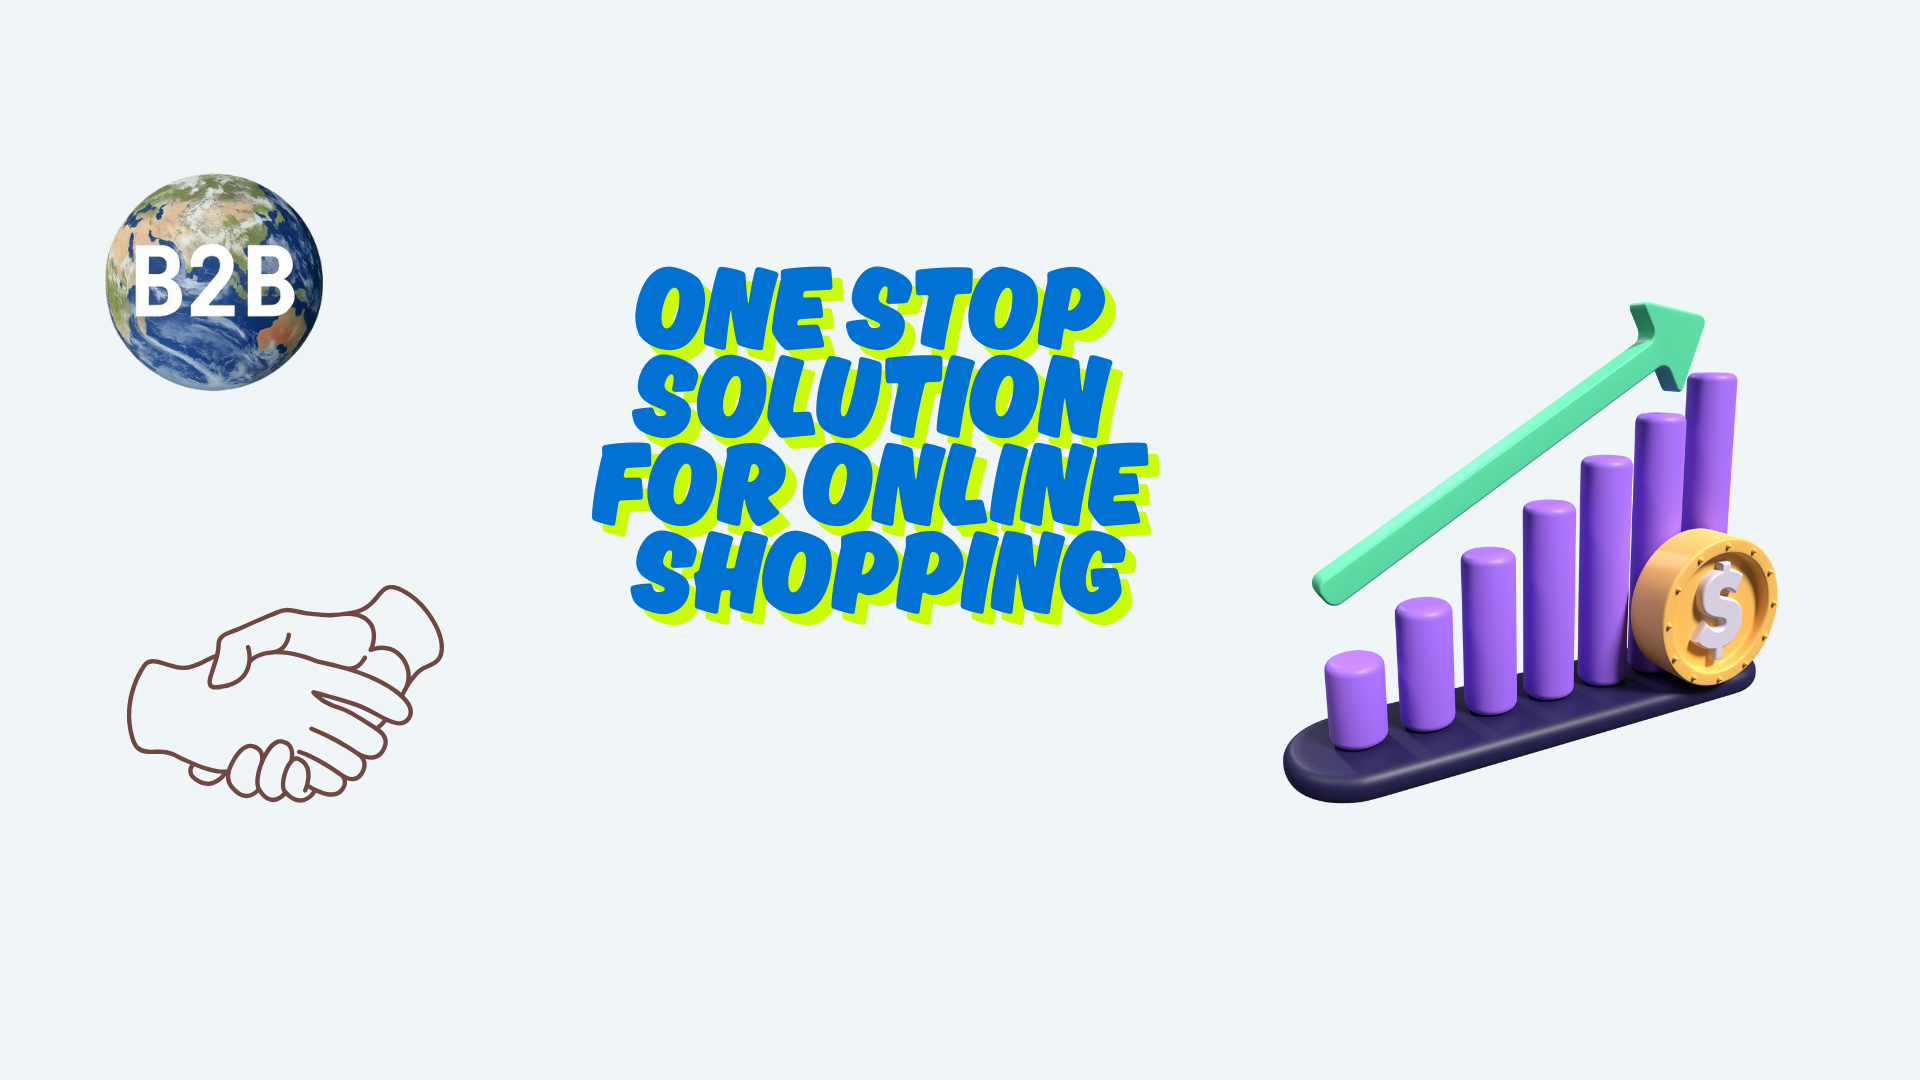
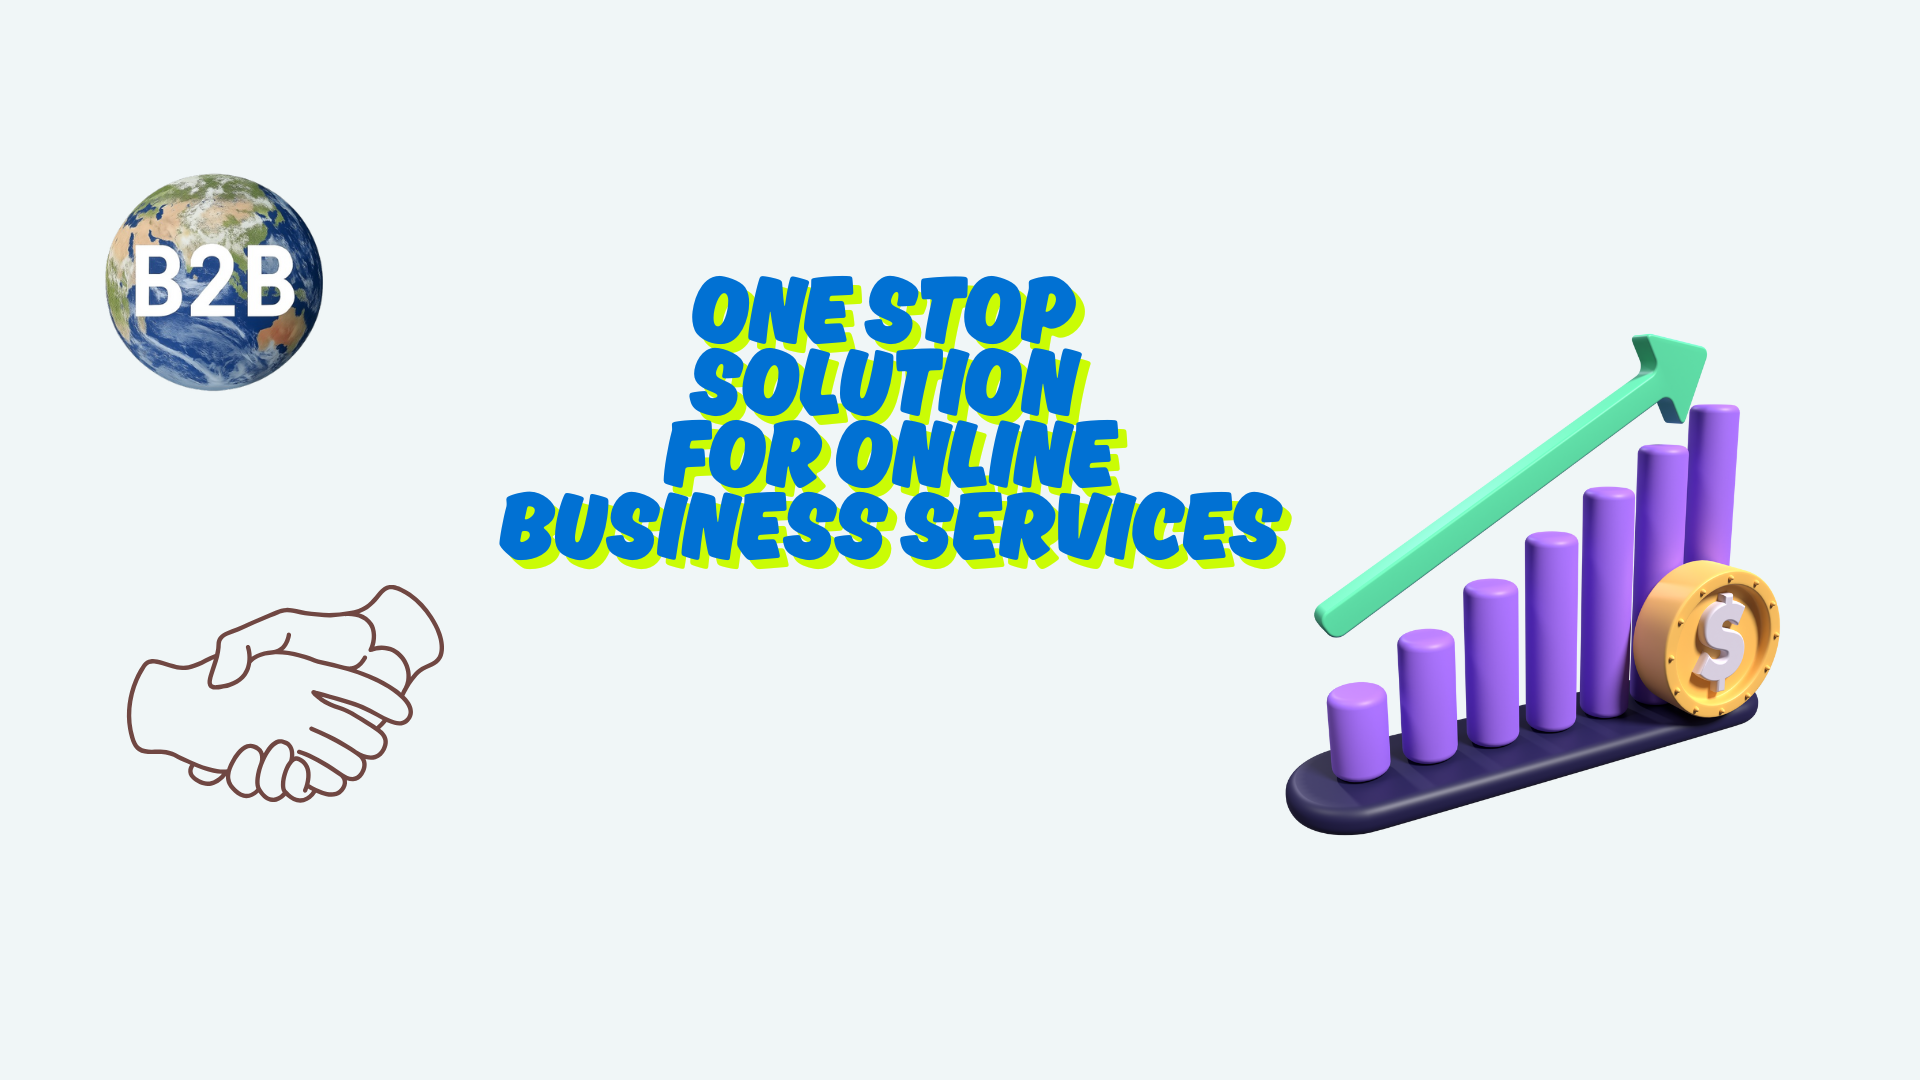
notifications b2b

Changed region(s): [[0.25, 0.2444, 0.9375, 0.7944]]

diff --git a/restaurant/src/components/Navbar.jsx b/restaurant/src/components/Navbar.jsx
@@ -2,13 +2,59 @@ import { useState, useContext } from 'react';
 import { Link, useNavigate } from 'react-router-dom';
 import { MobileMenuContext } from '../context/MobileMenuContext';
 import { AuthContext } from '../context/AuthContext';
+import { Bell } from 'lucide-react';
+import { useEffect, useRef } from 'react';
+import io from 'socket.io-client';
+import { API_URL } from '../api/api';
 
 const Navbar = () => {
     const [isOnline, setIsOnline] = useState(false);
+    const [showNotifications, setShowNotifications] = useState(false);
     const { user, handleLogout } = useContext(AuthContext);
     const { setIsMobileMenuOpen } = useContext(MobileMenuContext);
     const navigate = useNavigate();
+    const socket = io(API_URL, { withCredentials: true });
+    const [recentOrders, setRecentOrders] = useState([]);
+     useEffect(() => {
+        if (!user) return;
 
+        // Listen for new orders
+        socket.on('newOrder', (newOrder) => {
+            if (newOrder.restaurantId === user.restaurantId) {
+                setRecentOrders(prev => {
+                    // Prevent duplicates
+                    const exists = prev.some(order => order._id === newOrder._id);
+                    if (!exists) {
+                        // Keep only latest 10
+                        return [newOrder, ...prev].slice(0, 10);
+                    }
+                    return prev;
+                });
+            }
+        });
+         // Listen for order status updates
+        socket.on('orderStatusUpdate', (updatedOrder) => {
+            if (updatedOrder.restaurantId === user.restaurantId) {
+                setRecentOrders(prev => {
+                    // Remove cancelled orders
+                    if (updatedOrder.status === 'CANCELLED') {
+                        return prev.filter(order => order._id !== updatedOrder._id);
+                    }
+                    // Update order if exists
+                    return prev.map(order =>
+                        order._id === updatedOrder._id ? updatedOrder : order
+                    );
+                });
+            }
+        });
+
+        // Cleanup listeners on unmount
+        return () => {
+            socket.off('newOrder');
+            socket.off('orderStatusUpdate');
+        };
+    }, [user]);
+    
     const onStatusChange = (status) => {
         setIsOnline(status === 'online');
     };
@@ -16,6 +62,10 @@ const Navbar = () => {
     const handleLogoutClick = () => {
         handleLogout();
         navigate('/');
+    };
+
+    const toggleNotifications = () => {
+        setShowNotifications(!showNotifications);
     };
 
     return (
@@ -43,8 +93,8 @@ const Navbar = () => {
                 {/* Right-aligned section */}
                 <div className="d-flex align-items-center gap-4">
                     {/* About Us and Contact Us links - now moved to the right */}
-                    <div className="d-none d-md-flex gap-4">
-                        <Link className="text-decoration-none text-dark fw-medium" to="/aboutus">
+                    <div className="d-none d-md-flex gap-4 align-items-center">
+                        <Link className="text-decoration-none text-dark fw-medium" to="/aboutb2b">
                             About B2B
                         </Link>
                         <Link className="text-decoration-none text-dark fw-medium" to="/contactus">
@@ -53,6 +103,58 @@ const Navbar = () => {
                         <Link className="text-decoration-none text-dark fw-medium" to="/feedback">
                             Feedback
                         </Link>
+                        <div className="position-relative">
+                            <button 
+                                className="btn btn-link text-dark p-0 position-relative"
+                                onClick={toggleNotifications}
+                            >
+                                <Bell size={20} />
+                                <span className="position-absolute top-0 start-100 translate-middle badge rounded-pill bg-danger" style={{ fontSize: '0.6rem' }}>
+                                    {recentOrders.length}
+                                    <span className="visually-hidden">unread notifications</span>
+                                </span>
+                            </button>
+                            
+                            {/* Notifications dropdown */}
+                            {showNotifications && (
+                                <div className="position-absolute end-0 mt-2 bg-white rounded shadow-lg" style={{ width: '300px', zIndex: 1050 }}>
+                                    <div className="p-3 border-bottom">
+                                        <h6 className="mb-0 fw-bold">Recent Orders</h6>
+                                    </div>
+                                    <div style={{ maxHeight: '400px', overflowY: 'auto' }}>
+                                        {recentOrders.length > 0 ? (
+                                            recentOrders.map(order => (
+                                                <Link 
+                                                    key={order._id} 
+                                                    to = "/orders" 
+                                                    className="d-block p-3 border-bottom text-decoration-none text-dark hover-bg-light"
+                                                    onClick={() => setShowNotifications(false)}
+                                                >
+                                                    <div className="d-flex justify-content-between">
+                                                        <span className="fw-medium">{order.product}</span>
+                                                        <small className="text-muted">{order.date}</small>
+                                                    </div>
+                                                    <div className="text-muted small">Status: {order.status}</div>
+                                                </Link>
+                                            ))
+                                        ) : (
+                                            <div className="p-3 text-center text-muted">
+                                                No recent orders
+                                            </div>
+                                        )}
+                                    </div>
+                                    <div className="p-2 border-top text-center">
+                                        <Link 
+                                            to="/orders" 
+                                            className="text-primary small text-decoration-none"
+                                            onClick={() => setShowNotifications(false)}
+                                        >
+                                            View all orders
+                                        </Link>
+                                    </div>
+                                </div>
+                            )}
+                        </div>
                     </div>
 
                     {/* User dropdown */}

diff --git a/restaurant/src/pages/MenuEditor.jsx b/restaurant/src/pages/MenuEditor.jsx
@@ -744,7 +744,7 @@ function MenuEditor() {
                                     <div className="grid grid-cols-1 md:grid-cols-2 gap-4 mb-4">
                                       <div>
                                         <label className="block text-sm font-medium text-gray-700 mb-1">
-                                          Item Name
+                                          Item Name <span className="text-red-500">*</span>
                                         </label>
                                         <input
                                           type="text"
@@ -757,7 +757,7 @@ function MenuEditor() {
                                       </div>
                                       <div>
                                         <label className="block text-sm font-medium text-gray-700 mb-1">
-                                          Price
+                                          Price<span className="text-red-500">*</span>
                                         </label>
                                         <input
                                           type="number"
@@ -774,7 +774,7 @@ function MenuEditor() {
                                       <div>
                                         <label className="block text-sm font-medium text-gray-700 mb-1"
                                         htmlFor="quantity-input">
-                                        Quantity*
+                                        Quantity <span className="text-red-500">*</span>
                                       </label>
                                       <input
                                         type="number"

diff --git a/b2b-landingPage/src/components/Checkout.jsx b/b2b-landingPage/src/components/Checkout.jsx
@@ -98,7 +98,7 @@ const Checkout = () => {
     const navigate = useNavigate();
     const { carts, clearCart } = useCart();
     const { user } = useContext(HotelContext);
-
+    const [isProcessing, setIsProcessing] = useState(false);
     useEffect(() => {
         // Scroll to top when component mounts
         window.scrollTo(0, 0);
@@ -176,6 +176,9 @@ const Checkout = () => {
                 toast.error('Please select or add a delivery address to continue');
                 return;
             }
+             if (isProcessing) return; // Prevent double submission
+                 setIsProcessing(true);
+
 
             // Validate form data if showing address form
             if (showAddressForm) {
@@ -260,6 +263,9 @@ const Checkout = () => {
                 toast.error('Failed to place order. Please try again.');
             }
         }
+        finally {
+        setIsProcessing(false); 
+    }
     };
 
     const calculateTotal = () => {
@@ -593,8 +599,9 @@ const Checkout = () => {
                         <button
                             onClick={handleCompletePurchase}
                             className="w-full px-4 py-3 bg-green-500 text-white rounded-lg hover:bg-green-600 transition-colors duration-200 text-lg font-semibold"
+                            disabled={isProcessing}
                         >
-                            Complete Purchase
+                              {isProcessing ? 'Processing...' : 'Place order'}
                         </button>
                     </div>
                 </div>

diff --git a/b2b-landingPage/src/components/Navbar.jsx b/b2b-landingPage/src/components/Navbar.jsx
@@ -293,9 +293,10 @@ function Navbar({ alwaysVisible }) {
             <div className="relative" ref={notificationsRef}>
               <button
                 onClick={() => setShowNotifications(!showNotifications)}
-                className="p-2 rounded-full hover:bg-gray-100 relative"
+                className="p-2 rounded-full hover:bg-gray-100 flex items-center gap-1 relative"
               >
                 <Bell size={20} />
+                <span className="text-sm">Notifications</span>
                 {unreadCount > 0 && (
                   <span className="absolute -top-1 -right-1 bg-red-500 text-white text-xs rounded-full px-1.5 py-0.5">
                     {unreadCount}
@@ -361,7 +362,7 @@ function Navbar({ alwaysVisible }) {
                     <span className="text-md font-medium capitalize ">{user.username || "Hi User"}</span>
                   </>
                 ) : (
-                  <div className="flex">
+                  <div className="flex items-center gap-1">
                     <User size={20} />
                     <span className="text-sm">Login</span>
                   </div>
@@ -513,6 +514,7 @@ function Navbar({ alwaysVisible }) {
                       )}
                     </button>
                   </Link>
+                   
                   <Link to="/feedback" onClick={() => setIsMobileMenuOpen(false)}>
                     <button className="w-full p-3 rounded-lg hover:bg-gray-100 flex items-center gap-3 transition-colors">
                       <MessageSquare size={20} />

diff --git a/restaurant/src/pages/MenuItemModal.jsx b/restaurant/src/pages/MenuItemModal.jsx
@@ -170,7 +170,7 @@ const MenuItemModal = ({ open, onClose, onSubmit, preSelectedCategory = '', preS
                         </div>
                         <div className="space-y-1">
                             <label className="block text-sm font-medium text-gray-700 mb-1">
-                                Quantity
+                                Quantity <span className="text-red-500">*</span>
                             </label>
                             <input
                                 type="number"
@@ -178,7 +178,8 @@ const MenuItemModal = ({ open, onClose, onSubmit, preSelectedCategory = '', preS
                                 value={form.quantity}
                                 onChange={handleChange}
                                 className="w-full px-4 py-2 border border-gray-300 rounded-lg focus:ring-2 focus:ring-green-500 focus:border-green-500 transition-all duration-200"
-                                min="1"
+                                required
+                                // min="1"
                                 
                             />
                         </div>

diff --git a/b2b-landingPage/src/components/Footer.jsx b/b2b-landingPage/src/components/Footer.jsx
@@ -32,14 +32,14 @@ const Footer = () => {
                     {/* Company Info */}
                     <div>
                         <h3 className="text-xl font-bold mb-4">B2B</h3>
-                        <p className="text-gray-400">Your one-stop platform for business services.</p>
+                        <p className="text-gray-400">one-stop solution for online shopping.</p>
                     </div>
 
                     {/* Quick Links */}
                     <div>
                         <h3 className="text-xl font-bold mb-4">Quick Links</h3>
                         <ul className="space-y-2">
-                            <li> <Link to="/about-us" className="text-gray-400 hover:text-white">
+                            <li> <Link to="/aboutb2b" className="text-gray-400 hover:text-white">
                                 About B2B
                             </Link></li>
                             {/* <li><a href="#" className="text-gray-400 hover:text-white">Contact</a></li> */}

diff --git a/b2b-landingPage/src/App.jsx b/b2b-landingPage/src/App.jsx
@@ -107,7 +107,7 @@ function AppContent() {
         <Route path="/search" element={<SearchPage />} />
         <Route path="/profile" element={<Profile />} />
         <Route path="/guest-login" element={<GuestLogin />} />
-        <Route path="/about-us" element={<AboutUs />} />
+        <Route path="/aboutb2b" element={<AboutUs />} />
         <Route path="/contactus" element={<Contactus />} />
         <Route path="/features" element={<Features />} />
         <Route path="/order-status/:orderId" element={<OrderStatus />} />

diff --git a/restaurant/src/App.jsx b/restaurant/src/App.jsx
@@ -42,7 +42,7 @@ function App() {
               <Route path='/login' element={<Login />} />
               <Route path='/register' element={<Register />} />
               <Route path='/forgot-password' element={<ForgotPassword />} />
-              <Route path='/Aboutus' element={<Aboutus />} />
+              <Route path='/Aboutb2b' element={<Aboutus />} />
               <Route path='/Footer' element={<Footer />} />
               <Route path='/contactus' element={<Contactus />} />
               {/* Protected Routes */}

diff --git a/restaurant/src/components/Footer.jsx b/restaurant/src/components/Footer.jsx
@@ -11,7 +11,7 @@ const Footer = () => {
                     <div className="col-md-4 mb-5">
                         <img src={logo} alt="B2B" style={{ height: '30px', width: '30px' }} className="mb-3" />
                         <h6 className="text-uppercase text-white fw-bold mb-3">
-                            Your one-stop platform for business services.
+                            one-stop solutions for online business services.
                         </h6>
                     </div>
 
